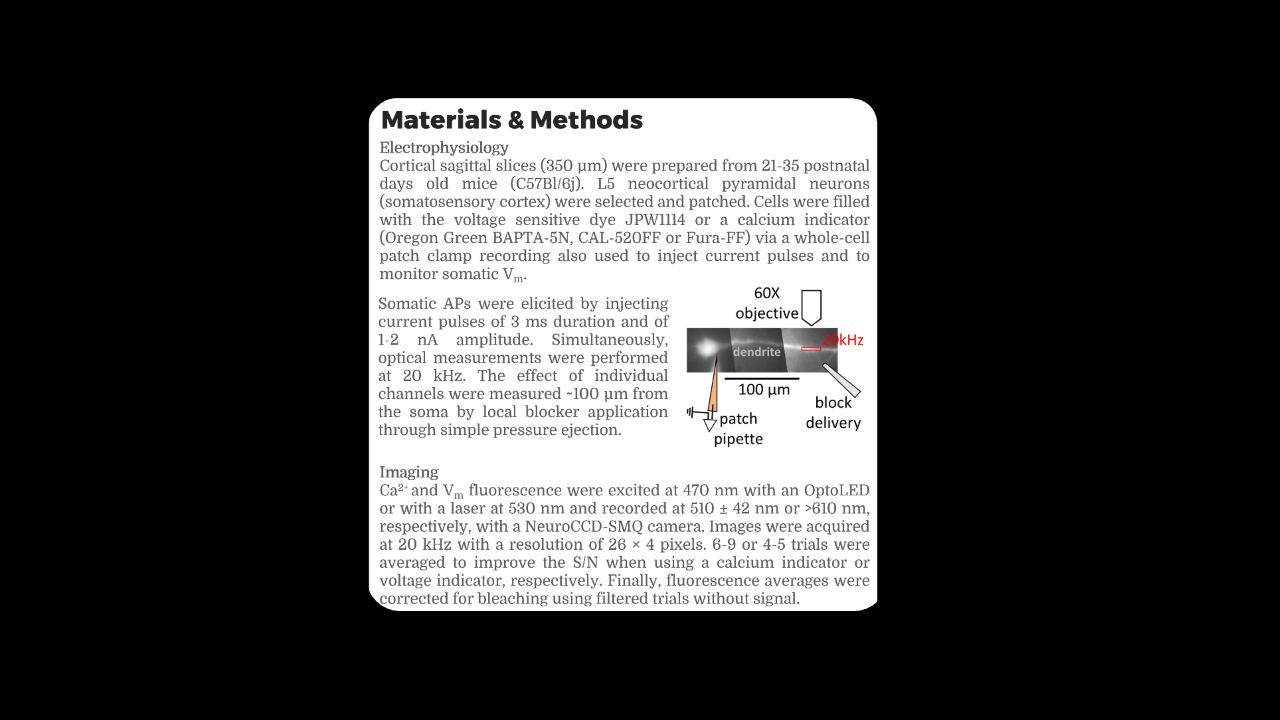
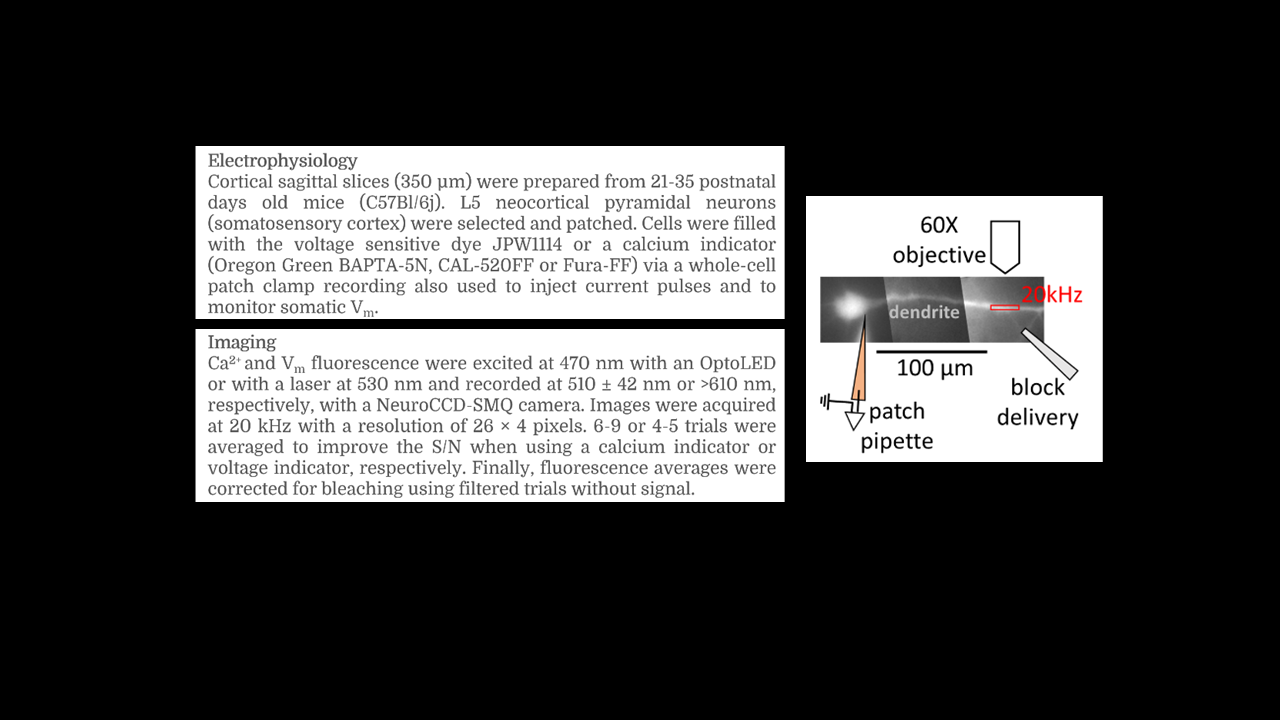
re-doing methods

diff --git a/content/slides/nantes21.md b/content/slides/nantes21.md
@@ -29,6 +29,8 @@ slides:
 - Neocortical layer-5 (L5) pyramidal neurons express a diverse voltage gated ion channels, including high and low voltage activated Ca²⁺ channels (VGCCs) , a Na+ channel (Nav1.2), Ca²⁺-activated K+ channels (CaKCs: SK and BK), and voltage activated K+ channels. 
 - Here we present data on how N- and L-type calcium channels can regulate bAPs through an interplay with Ca²⁺-activated potassium channels.
 
+---
+## Methods
 --- 
 
 
